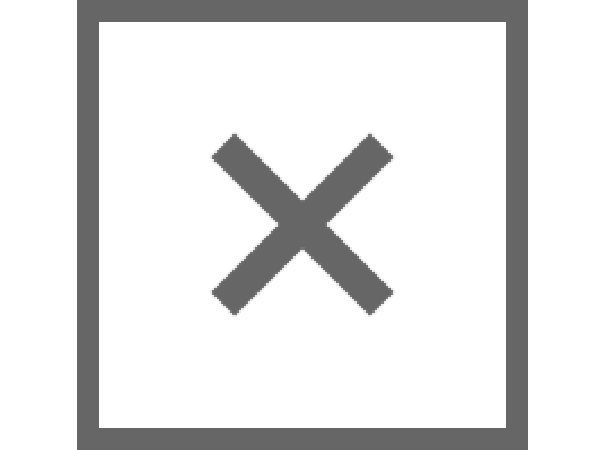
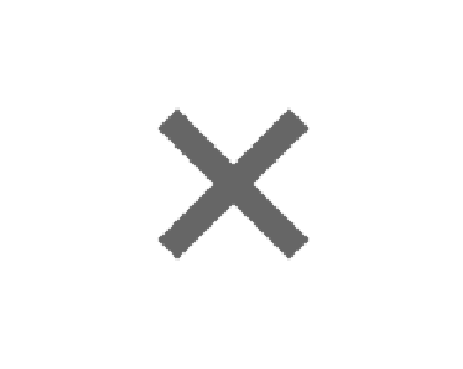
changed placement of gif preview images

diff --git a/old-home.html b/old-home.html
@@ -78,18 +78,20 @@
           </div>
           <div class="modalcanvasdiv">
             <h1 class="webcamhelpertext">Click To Change Filter</h1>
-            <div class="webcampreviewdiv">
-              <img class="webcampreviewimages" id="p1" src="images/Blank.png">
-              <img class="webcampreviewimages" id="p2" src="images/Blank.png">
-              <img class="webcampreviewimages" id="p3" src="images/Blank.png">
-              <img class="webcampreviewimages" id="p4" src="images/Blank.png">
-            </div>  
+ 
             <img class="webcamoverlayimage" src="assets/FinalArt/LeiaHead.gif">
                <video autoplay="true" class="webcamvideo" id="videoElement" width="100%" height="75%"></video> 
             <!--<div class="webcamvideo" id="videoElement"></div> -->
             <canvas class="webcamcanvas" id="webcamcanvas"></canvas>
           </div>
-          <div class="modalcameradiv"><img class="photobutton" src="images/cricle.png">
+          <div class="modalcameradiv">
+                          <div class="webcampreviewdiv">
+              <img class="webcampreviewimages" id="p1" src="images/Blank.png">
+              <img class="webcampreviewimages" id="p2" src="images/Blank.png">
+              <img class="webcampreviewimages" id="p3" src="images/Blank.png">
+              <img class="webcampreviewimages" id="p4" src="images/Blank.png">
+            </div> 
+              <img class="photobutton" src="images/cricle.png">
           </div>
         </div>
    <!-- </div>  -->
@@ -240,7 +242,8 @@
 
 <script type="text/javascript">
     //var testImage = new Image();
-    var spinner;   
+    var spinner; 
+    var opts;    
     var heightAvailable; 
     var widthAvailable;
     var xOffset; 
@@ -432,8 +435,8 @@
         var clip_image = new Image();
         clip_image.src = 'assets/FinalArt/leia_facearea.png';
         var faceOutlines = [];
-        var imageLeia = new Image();
-        imageLeia.src = 'assets/FinalArt/LeiaHeadSingle.png'; 
+        //var imageLeia = new Image();
+        //imageLeia.src = 'assets/FinalArt/LeiaHeadSingle.png'; 
         var faces = { 
             leia : {   clipurl:'assets/FinalArt/leia_facearea.png',
                        pngurl:['assets/FinalArt/LeiaHead/head_0006_Layer-1.png',
@@ -632,7 +635,7 @@
             else if(indexNum ==2){
                 currentface = "leia";
             }
-        }
+       }
             
         //cycle overlay images 
         $( ".modalcanvasdiv" ).on('touchend click', function(){
@@ -915,7 +918,7 @@
             {
                 // Load completed
                 domImg.src = this.src;
-                faceImagesLoaded();
+                //faceImagesLoaded();
             };
             img.src = src1;
         }  
@@ -929,7 +932,7 @@
                 lastTime = new Date().getTime();
                 $(".photobutton").transition({filter: 'invert(100%)' }, 100, 'out', function() {     
                     $(".photobutton").transition({filter: 'invert(0%)' }, 100, 'in', function() { 
-
+                        faceOutlines = [];
                         clip_image = new Image();
                         clip_image.onload = function()
                         {
@@ -939,16 +942,16 @@
                         };
                         clip_image.src = faces[currentface]["clipurl"];
 
-                        for (i = 0; i < faces[currentface]["pngurl"].length; i++) { 
-                            imageLeia = new Image();
-                            imageLeia.onload = function()
+                        for (i = 0; i < faces[currentface].pngurl.length; i++) { 
+                            var outline = new Image();
+                            outline.onload = function()
                             {
-                                imageLeia.width = $( ".webcamoverlayimage" ).width();
-                                imageLeia.height = $( ".webcamoverlayimage" ).height();
+                                outline.width = $( ".webcamoverlayimage" ).width();
+                                outline.height = $( ".webcamoverlayimage" ).height();
                                 faceImagesLoaded();
                             };
-                            imageLeia.src = faces[currentface]["pngurl"][i];
-                            faceOutlines.push(imageLeia);
+                            outline.src = faces[currentface].pngurl[i];
+                            faceOutlines.push(outline);
                         }
                     });
                 });
@@ -1069,8 +1072,7 @@
                 //if(faceSrcData.length > 100){}
                 //var apImage = document.getElementById('approveimg');
                 var apImage; 
-                
-                
+
                 if(faceCounter == 0){
                     apImage = document.getElementById('p1');    
                 }else if(faceCounter == 1){
@@ -1086,13 +1088,37 @@
                  {
                      
                      if(faceCounter >= 4){
-                         console.log("pfI: " + previewFaceImages.length);
+                         var target = document.getElementById('spinnerParent');
+                        $("#spinnerParent").show();
+                        opts = {
+                                  lines: 10 // The number of lines to draw
+                                , length: 28 // The length of each line
+                                , width: 16 // The line thickness
+                                , radius: 42 // The radius of the inner circle
+                                , scale: 1 // Scales overall size of the spinner
+                                , corners: 1 // Corner roundness (0..1)
+                                , color: '#ffffff' // #rgb or #rrggbb or array of colors
+                                , opacity: 0.25 // Opacity of the lines
+                                , rotate: 0 // The rotation offset
+                                , direction: 1 // 1: clockwise, -1: counterclockwise
+                                , speed: 1 // Rounds per second
+                                , trail: 60 // Afterglow percentage
+                                , fps: 20 // Frames per second when using setTimeout() as a fallback for CSS
+                                , zIndex: 2e9 // The z-index (defaults to 2000000000)
+                                , className: 'spinner' // The CSS class to assign to the spinner
+                                , top: '50%' // Top position relative to parent
+                                , left: '50%' // Left position relative to parent
+                                , shadow: false // Whether to render a shadow
+                                , hwaccel: false // Whether to use hardware acceleration
+                                , position: 'absolute' // Element positioning
+                                }
+                        spinner = new Spinner(opts).spin(target); 
                          GiffyfyFaces(previewFaceImages); 
                        
                      }
                  };
                 
-                apImage.src =faceSrcData;
+                apImage.src = faceSrcData;//wCanvas.toDataURL('image/jpeg');//faceSrcData;
                 previewFaceImages.push(apImage);
                 
                 
@@ -1121,6 +1147,8 @@
                         $('.modalcontent').hide();
                         var image = obj.image;
                         document.getElementById('approveimg').src = image;
+                        $("#spinnerParent").hide();
+                        spinner.stop(); 
                     }
                 });
 
@@ -1497,7 +1525,7 @@ image.style.cssText = "display: inline";
                     $("#createButton").transition({scale: 1.0 }, 200, 'in', function() {    
                         CreateFacePNGs(); 
 
-                        var opts = {
+                        opts = {
                           lines: 10 // The number of lines to draw
                         , length: 28 // The length of each line
                         , width: 16 // The line thickness

diff --git a/css/angertranslator.webflow.css b/css/angertranslator.webflow.css
@@ -1101,14 +1101,16 @@ margin-right:auto;
   position:absolute;
   display: block;
     height: auto;
-  bottom: -20%;
+  top: -40%;
   z-index: 6;
-  background-color: rgba(0, 0, 0, .5);  
+  background-color: #01afd1;  
 }
 .webcampreviewimages{
   position:relative;
   width: 20%;
   height: auto; 
+  /*border: 2px solid lightgrey;*/
+  background-color: lightgrey;
 }
 
 .webcamoverlayimage {
